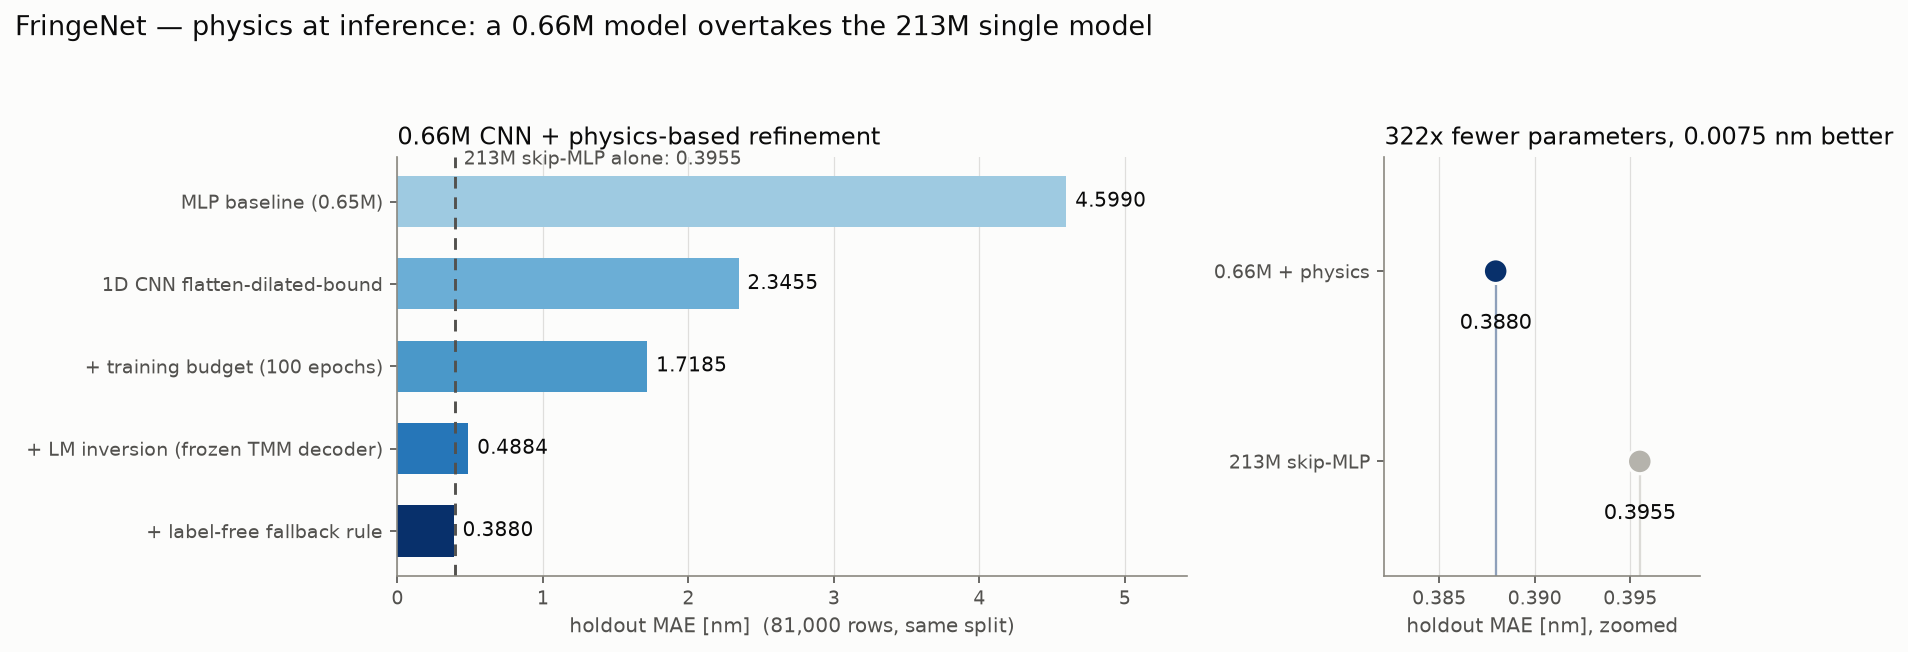
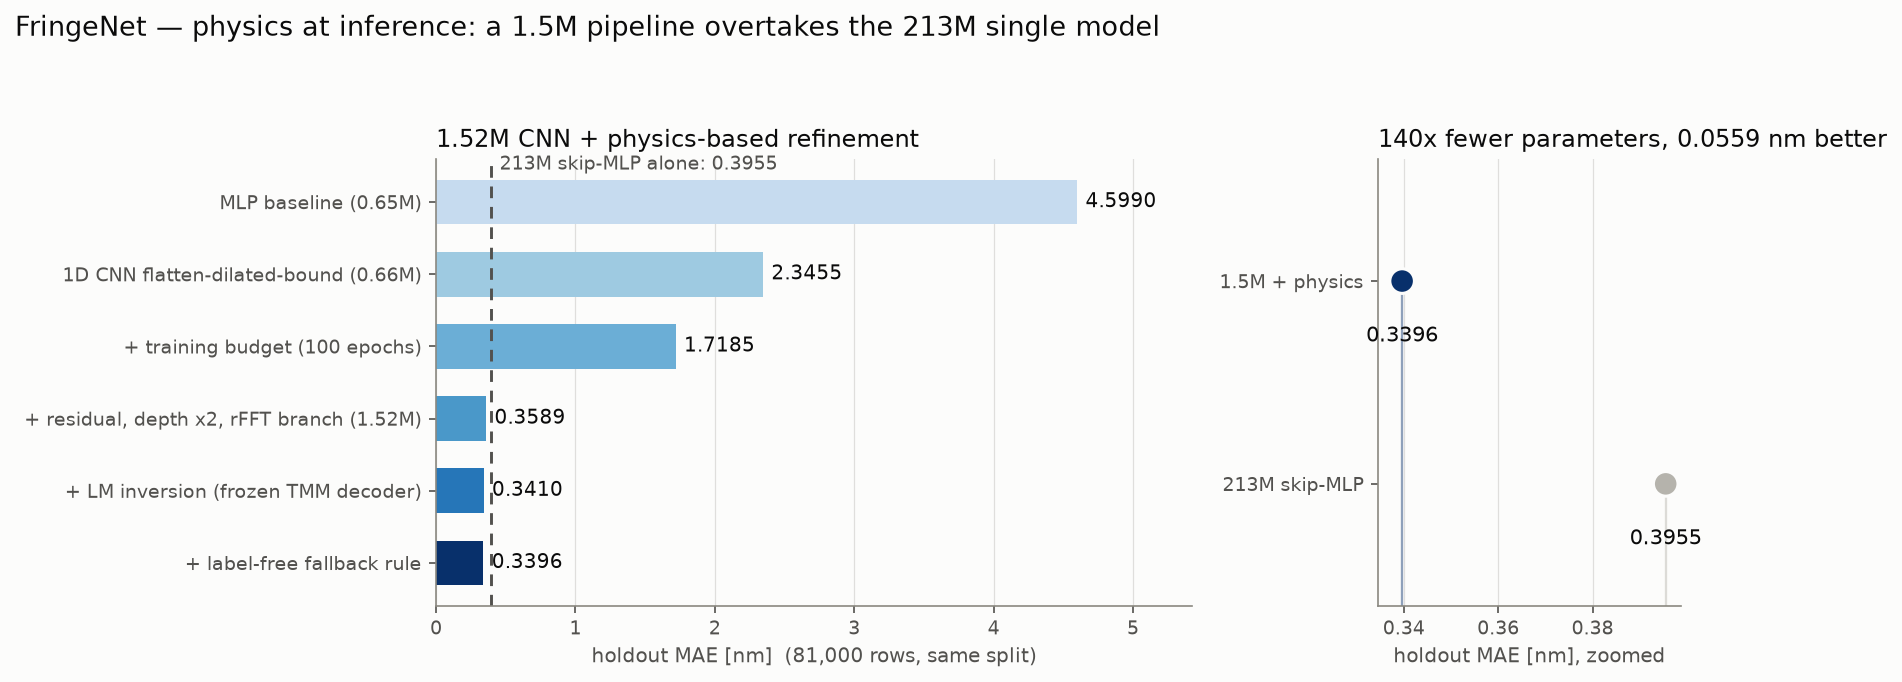
feat: 헤드라인 그림 task8 확장 + 격자 밖 반전 slopegraph + 리더보드 실측 정본
- make_headline_figure.py: 사다리를 채택 경로(d2-fft + LM + 되돌림, 1.52M)로 연장하고
  최종 대결 패널을 140배 기준으로 갱신. 수치는 계속 산출물에서만 읽는다
  (metrics.json · task8_judge.json + 신설 leaderboard.json).
- fig_offgrid.png 신설: holdout↔test slopegraph — raw 신경망 셋 전부 열화(+20~85%),
  물리 파이프라인만 전이(−0.2%). Task 8 발견 ②를 그림 한 장으로.
- reports/leaderboard.json 신설: 데이콘 제출 실측(5건)의 기계가독 정본. 외부 측정이라
  손기록이 허용되는 유일한 수치 파일 — 그림·표 스크립트는 test 수치를 여기서 읽는다.
- 부수 발견: 채택 파이프라인 전이율은 −0.2%다 (0.3396 → 0.33895). 문서들의 −0.02%는
  산술 오기였고 다음 커밋에서 정정 — 스크립트가 정본에서 재계산하며 걸러낸 사례.

diff --git a/scripts/make_headline_figure.py b/scripts/make_headline_figure.py
@@ -1,10 +1,12 @@
-"""헤드라인 그림 — baseline → CNN → 물리 보정 사다리와 213M 단독 대비.
+"""헤드라인 그림 2종 — 개선 사다리(holdout)와 격자 밖 전이 반전(holdout↔test).
 
-수치는 전부 산출물에서 읽는다 (metrics.json 4종 + reports/cnn_recipe_judge.json) —
-손으로 적는 수치가 없으므로 run·judge가 갱신되면 재실행만으로 그림이 따라온다.
+수치는 전부 산출물에서 읽는다 (metrics.json · reports/task8_judge.json ·
+reports/leaderboard.json) — 손으로 적는 수치가 없으므로 run·judge·제출 기록이
+갱신되면 재실행만으로 그림이 따라온다.
 
 산출물:
   reports/figures/fig_headline.png   (재실행 시 덮어씀)
+  reports/figures/fig_offgrid.png    (재실행 시 덮어씀)
 
 사용법:
     python scripts/make_headline_figure.py
@@ -22,7 +24,7 @@ matplotlib.use("Agg")  # 헤드리스 환경
 import matplotlib.pyplot as plt  # noqa: E402
 
 REPO_ROOT = Path(__file__).resolve().parents[1]
-OUT_PATH = REPO_ROOT / "reports" / "figures" / "fig_headline.png"
+FIG_DIR = REPO_ROOT / "reports" / "figures"
 
 # 색 토큰은 scripts/eda.py와 같다 (그림들이 한 벌로 읽히게). 그림 라벨은 영문 — 저장소의
 # 기존 그림 규약이고, 한글 폰트는 환경 의존이라 이식성이 없다.
@@ -32,8 +34,13 @@ INK_MUTED = "#8a8880"
 SURFACE = "#fcfcfb"
 # 사다리는 순서 있는 **개선 단계**라 단일 색상 순차 램프 (범주형 팔레트가 아니다).
 # 인접 단계가 닮는 것이 정상이므로 식별은 색이 아니라 행 라벨·직접 값 라벨이 맡는다.
-LADDER_RAMP = ["#9ecae1", "#6baed6", "#4a98c9", "#2676b8", "#08306b"]
+LADDER_RAMP = ["#c6dbef", "#9ecae1", "#6baed6", "#4a98c9", "#2676b8", "#08306b"]
 REFERENCE_GRAY = "#b5b3ac"
+ACCENT = LADDER_RAMP[-1]
+
+ADOPTED_RUN = "task8/d2-fft"
+SKIP_MLP_RUN = "strong_baseline/winner-repro-asis"
+PIPE_RAW = "raw"  # leaderboard.json의 pipeline 필드가 이 접두로 시작하면 raw 제출이다
 
 
 def _val_mae(run: str) -> float:
@@ -41,39 +48,50 @@ def _val_mae(run: str) -> float:
     return float(metrics["model"]["val_mae"])
 
 
-def _judge_budget100() -> dict[str, float]:
-    """cnn_recipe_judge.json에서 budget100 행(post-LM·되돌림 후)을 찾는다."""
-    sidecar = json.loads((REPO_ROOT / "reports" / "cnn_recipe_judge.json").read_text())
+def _judge_row(run: str) -> dict[str, float]:
+    """task8_judge.json에서 run 행(post-LM lm · 되돌림 후 fb_mae)을 찾는다."""
+    sidecar = json.loads((REPO_ROOT / "reports" / "task8_judge.json").read_text())
     for row in sidecar["runs"]:
-        if row["run"] == "cnn_recipe/budget100":
+        if row["run"] == run:
             return row
-    raise KeyError("cnn_recipe_judge.json에 cnn_recipe/budget100 행이 없다 — judge를 다시 돌릴 것")
+    raise KeyError(f"task8_judge.json에 {run} 행이 없다 — judge를 다시 돌릴 것")
 
 
-def _style_axes(ax: plt.Axes) -> None:
+def _leaderboard(run: str, raw: bool) -> dict:
+    """leaderboard.json에서 (run, raw 여부)로 제출 기록을 찾는다."""
+    book = json.loads((REPO_ROOT / "reports" / "leaderboard.json").read_text())
+    for sub in book["submissions"]:
+        if sub["run"] == run and sub["pipeline"].startswith(PIPE_RAW) == raw:
+            return sub
+    kind = "raw" if raw else "물리 파이프라인"
+    raise KeyError(f"leaderboard.json에 {run}의 {kind} 제출 기록이 없다")
+
+
+def _style_axes(ax: plt.Axes, grid_axis: str = "x") -> None:
     ax.set_facecolor(SURFACE)
     for side in ("top", "right"):
         ax.spines[side].set_visible(False)
     for side in ("left", "bottom"):
         ax.spines[side].set_color(INK_MUTED)
     ax.tick_params(colors=INK_SECONDARY, labelsize=9)
-    ax.xaxis.grid(True, color=INK_MUTED, alpha=0.25, lw=0.6)
+    getattr(ax, f"{grid_axis}axis").grid(True, color=INK_MUTED, alpha=0.25, lw=0.6)
     ax.set_axisbelow(True)
 
 
-def main() -> None:
-    judge = _judge_budget100()
-    skip_mlp = _val_mae("strong_baseline/winner-repro-asis")
+def make_headline() -> list[tuple[str, float]]:
+    judge = _judge_row(ADOPTED_RUN)
+    skip_mlp = _val_mae(SKIP_MLP_RUN)
     rungs = [
         ("MLP baseline (0.65M)", _val_mae("mlp_baseline/dropout0.0")),
-        ("1D CNN flatten-dilated-bound", _val_mae("level1_cnn/flatten-dilated-bound")),
+        ("1D CNN flatten-dilated-bound (0.66M)", _val_mae("level1_cnn/flatten-dilated-bound")),
         ("+ training budget (100 epochs)", _val_mae("cnn_recipe/budget100")),
+        ("+ residual, depth x2, rFFT branch (1.52M)", _val_mae(ADOPTED_RUN)),
         ("+ LM inversion (frozen TMM decoder)", float(judge["lm"])),
         ("+ label-free fallback rule", float(judge["fb_mae"])),
     ]
 
     fig, (ax, axz) = plt.subplots(
-        1, 2, figsize=(11.5, 4.4), width_ratios=[2.5, 1.0], facecolor=SURFACE
+        1, 2, figsize=(11.5, 4.6), width_ratios=[2.5, 1.0], facecolor=SURFACE
     )
 
     # ── 왼쪽: 사다리 (위→아래 = 진행 순서) ────────────────────────────────────
@@ -97,13 +115,13 @@ def main() -> None:
     ax.set_xlim(0, max(values) * 1.18)
     _style_axes(ax)
     ax.set_title(
-        "0.66M CNN + physics-based refinement", fontsize=11.5, color=INK_PRIMARY, loc="left"
+        "1.52M CNN + physics-based refinement", fontsize=11.5, color=INK_PRIMARY, loc="left"
     )
 
     # ── 오른쪽: 최종 대결 확대 — 축이 0에서 시작하지 않으므로 길이(막대)가 아니라
     # 위치(점)로 부호화한다 (잘린 축의 막대는 차이를 과장한다).
-    duel = [("0.66M + physics", float(judge["fb_mae"])), ("213M skip-MLP", skip_mlp)]
-    colors = [LADDER_RAMP[-1], REFERENCE_GRAY]
+    duel = [("1.5M + physics", float(judge["fb_mae"])), ("213M skip-MLP", skip_mlp)]
+    colors = [ACCENT, REFERENCE_GRAY]
     duel_y = (1, 0)
     axz.scatter(
         [v for _, v in duel], duel_y, s=140, color=colors, zorder=3, edgecolor=SURFACE, lw=1.5
@@ -119,26 +137,108 @@ def main() -> None:
     _style_axes(axz)
     delta = skip_mlp - float(judge["fb_mae"])
     axz.set_title(
-        f"322x fewer parameters, {delta:.4f} nm better",
+        f"140x fewer parameters, {delta:.4f} nm better",
         fontsize=11.5,
         color=INK_PRIMARY,
         loc="left",
     )
 
     fig.suptitle(
-        "FringeNet — physics at inference: a 0.66M model overtakes the 213M single model",
+        "FringeNet — physics at inference: a 1.5M pipeline overtakes the 213M single model",
         fontsize=13,
         color=INK_PRIMARY,
         x=0.01,
         ha="left",
     )
     fig.tight_layout(rect=(0, 0, 1, 0.92))
-    OUT_PATH.parent.mkdir(parents=True, exist_ok=True)
-    fig.savefig(OUT_PATH, dpi=150, bbox_inches="tight", facecolor=SURFACE)
-    print(f"산출물: {OUT_PATH}")
+    out = FIG_DIR / "fig_headline.png"
+    fig.savefig(out, dpi=150, bbox_inches="tight", facecolor=SURFACE)
+    plt.close(fig)
+    print(f"산출물: {out}")
     for name, v in rungs:
-        print(f"  {name:38s} {v:.4f}")
-    print(f"  {'213M skip-MLP (reference)':38s} {skip_mlp:.4f}")
+        print(f"  {name:44s} {v:.4f}")
+    print(f"  {'213M skip-MLP (reference)':44s} {skip_mlp:.4f}")
+    return rungs
+
+
+def make_offgrid() -> None:
+    """격자 밖 전이 slopegraph — holdout(격자 위 보간) vs 리더보드 test(연속 두께)."""
+    judge = _judge_row(ADOPTED_RUN)
+    series = [
+        # (라벨, holdout, test, 강조 여부)
+        (
+            "d2-fft + LM + fallback (adopted)",
+            float(judge["fb_mae"]),
+            _leaderboard(ADOPTED_RUN, raw=False)["test_mae"],
+            True,
+        ),
+        (
+            "213M skip-MLP, raw",
+            _val_mae(SKIP_MLP_RUN),
+            _leaderboard(SKIP_MLP_RUN, raw=True)["test_mae"],
+            False,
+        ),
+        (
+            "d2-fft CNN, raw",
+            _val_mae(ADOPTED_RUN),
+            _leaderboard(ADOPTED_RUN, raw=True)["test_mae"],
+            False,
+        ),
+        (
+            "d2-se CNN, raw",
+            _val_mae("task8/d2-se"),
+            _leaderboard("task8/d2-se", raw=True)["test_mae"],
+            False,
+        ),
+    ]
+
+    fig, ax = plt.subplots(figsize=(9.5, 4.8), facecolor=SURFACE)
+    for label, hold, test, adopted in series:
+        color = ACCENT if adopted else REFERENCE_GRAY
+        lw = 2.4 if adopted else 1.6
+        ax.plot([0, 1], [hold, test], color=color, lw=lw, zorder=3 if adopted else 2)
+        ax.scatter([0, 1], [hold, test], s=46, color=color, zorder=4, edgecolor=SURFACE, lw=1.2)
+        ink = INK_PRIMARY if adopted else INK_SECONDARY
+        ax.text(-0.03, hold, f"{label}  {hold:.4f}", va="center", ha="right", fontsize=9, color=ink)
+        pct = (test - hold) / hold * 100.0
+        pct_txt = f"{pct:+.0f}%" if abs(pct) >= 1 else f"{pct:+.1f}%"
+        right = f"{test:g} ({pct_txt})"  # test는 리더보드 기록값 그대로 (0.33895는 5자리다)
+        if adopted:
+            rank = _leaderboard(ADOPTED_RUN, raw=False).get("rank")
+            if rank is not None:
+                right += f" — rank {rank}"
+        ax.text(1.03, test, right, va="center", ha="left", fontsize=9, color=ink)
+
+    ax.set_xlim(-0.85, 0.55 + 0.85)
+    ax.set_xticks(
+        [0, 1],
+        [
+            "holdout MAE [nm]\n(on-grid interpolation)",
+            "leaderboard test MAE [nm]\n(off-grid, continuous)",
+        ],
+    )
+    ax.tick_params(axis="x", labelsize=9.5)
+    _style_axes(ax, grid_axis="y")
+    ax.set_title(
+        "Off-grid reversal — every raw network degrades on continuous thicknesses;\n"
+        "only the physics pipeline transfers",
+        fontsize=12,
+        color=INK_PRIMARY,
+        loc="left",
+    )
+    fig.tight_layout()
+    out = FIG_DIR / "fig_offgrid.png"
+    fig.savefig(out, dpi=150, bbox_inches="tight", facecolor=SURFACE)
+    plt.close(fig)
+    print(f"산출물: {out}")
+    for label, hold, test, _ in series:
+        print(f"  {label:36s} {hold:.4f} -> {test:.4f}")
+
+
+def main() -> None:
+    FIG_DIR.mkdir(parents=True, exist_ok=True)
+    make_headline()
+    make_offgrid()
 
 
 if __name__ == "__main__":
